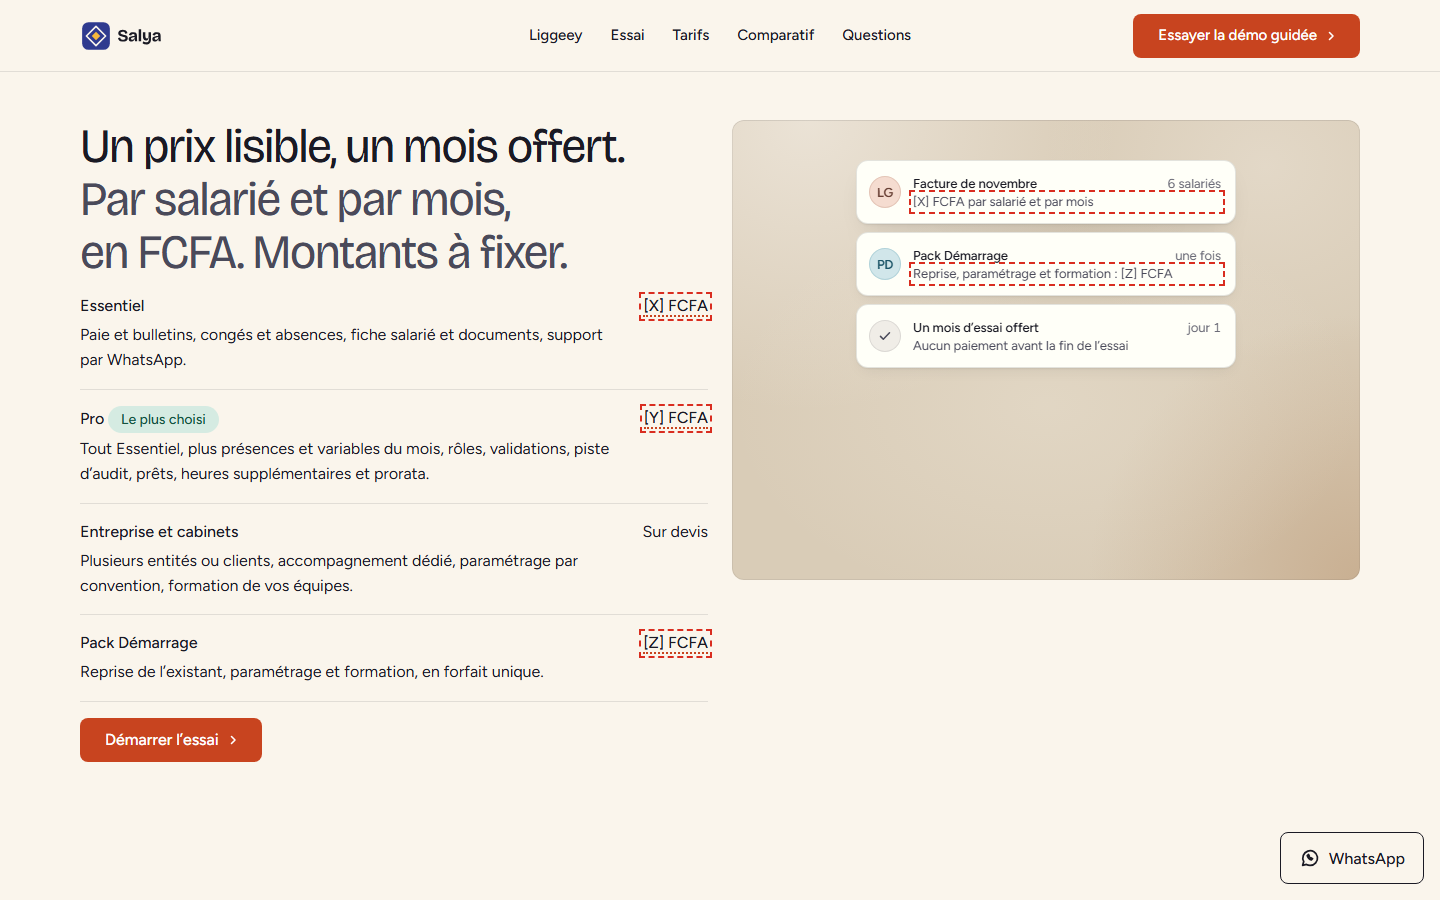
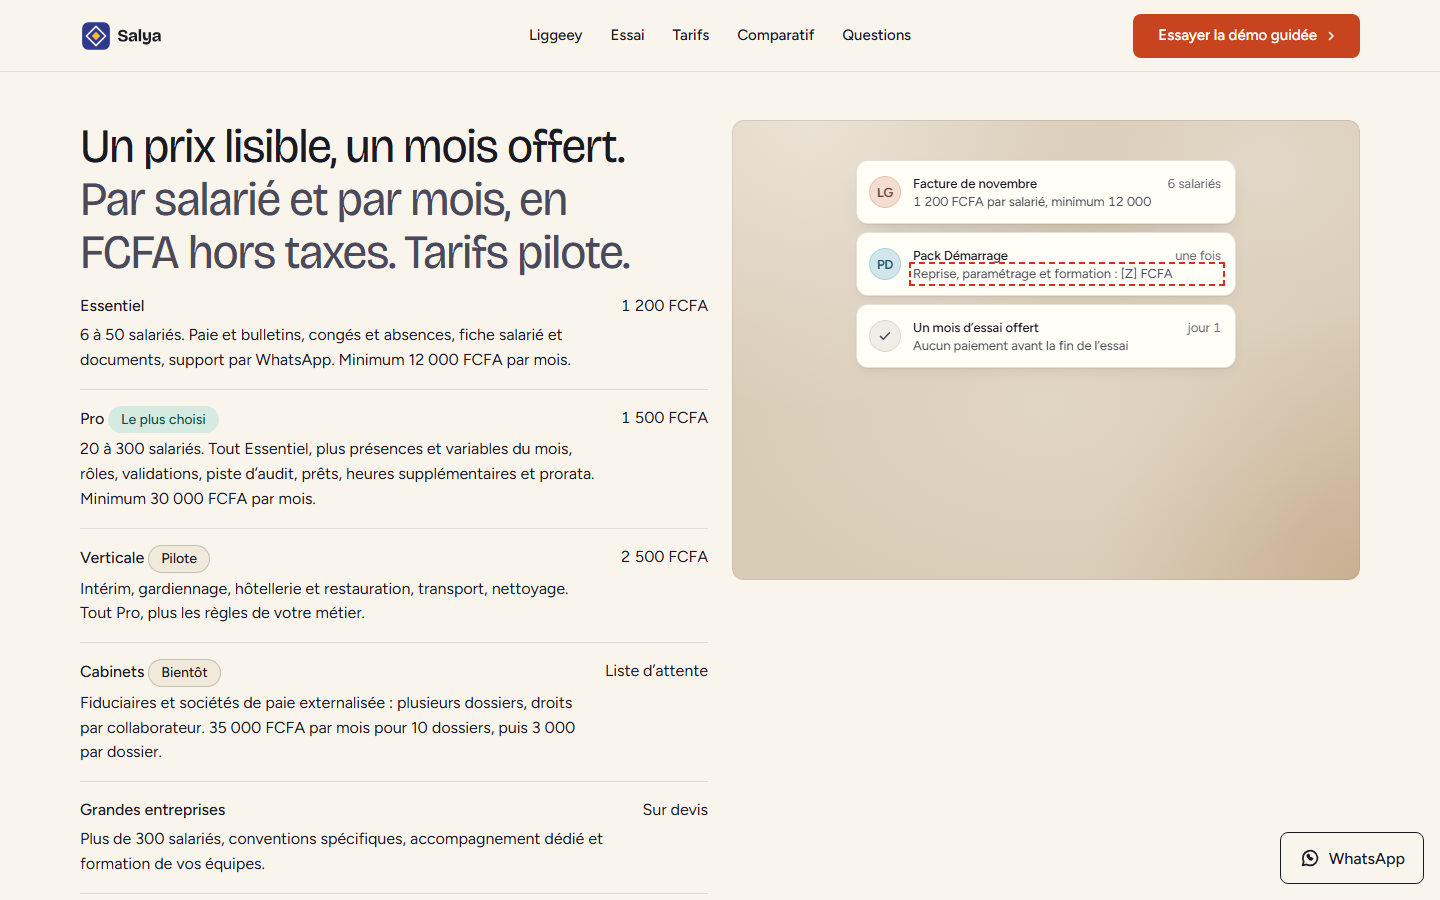
feat(tarifs): grille pilote issue du benchmark, FAQ, suite et comparatif mis à jour

diff --git a/app/page.tsx b/app/page.tsx
@@ -37,7 +37,8 @@ const TRIAL = [
 const CMP = [
   ["Mise en route", "Souvent un projet de plusieurs semaines, avec un consultant.", "Objectif : première paie dans la journée, sans consultant."],
   ["Reprise de l’existant", "À votre charge, ou en prestation payante.", "Accompagnée pendant le mois d’essai."],
-  ["Coût de départ", "Licence et déploiement à l’avance.", "Abonnement mensuel, un mois offert."],
+  ["Coût de départ", "Licence et déploiement à l’avance.", "Abonnement mensuel à partir de 1 200 FCFA par salarié, un mois offert."],
+  ["Mises à jour légales", "Selon le contrat de maintenance.", "Taux et plafonds tenus à jour, compris dans l’abonnement."],
   ["Langue et monnaie", "Selon l’éditeur et le pays.", "Français et FCFA dès l’origine."],
   ["Règlement des salaires", "Souvent traité hors du logiciel.", "Règlement par lot préparé dans l’outil (en cours de finalisation)."],
   ["Contrôles", "Variables selon les modules achetés.", "Validation par rôles, piste d’audit, périodes verrouillées."],
@@ -48,7 +49,10 @@ const FAQ = [
   ["Puis-je reprendre mes salariés depuis Excel ?", "Oui. Vous déposez votre fichier, Liggeey signale les informations manquantes et vous les corrigez à l’écran. Notre équipe vous accompagne."],
   ["Les règles de paie du Sénégal sont-elles à jour ?", "Les paramètres sont tenus à jour par notre équipe à partir des textes en vigueur. La liste détaillée et sa date de dernière mise à jour seront publiées ici avant le lancement. [à valider]"],
   ["Que deviennent mes données si j’arrête après l’essai ?", "Elles restent les vôtres. Vous pourrez les récupérer, que vous continuiez ou non. [engagement à valider]"],
-  ["Et pour plusieurs entreprises ou plusieurs clients ?", "L’offre Entreprise et cabinets est prévue pour cela. Parlez-nous de votre organisation et nous préparons un essai adapté."],
+  ["Comment le prix est-il calculé ?", "Au nombre de salariés payés dans le mois, avec un minimum mensuel selon la formule et des remises de volume. Aucun frais caché : la reprise de vos données est un forfait facultatif."],
+  ["Que signifie « tarif pilote » ?", "Les premiers clients bénéficient d’un prix réduit pendant que nous terminons les déclarations officielles, le règlement par mobile money et la double authentification. En échange, nous vous demandons votre retour d’expérience."],
+  ["Pourquoi un abonnement plutôt qu’un module acheté une fois ?", "L’abonnement comprend les mises à jour des textes, l’hébergement, le support et l’espace salarié. Un module acheté une fois ne suit pas les changements de la loi."],
+  ["Et pour plusieurs entreprises ou plusieurs clients ?", "L’offre Cabinets (en préparation) et l’offre Grandes entreprises sont prévues pour cela. Parlez-nous de votre organisation et nous préparons un essai adapté."],
 ];
 
 function Ph({ children }: { children: React.ReactNode }) {
@@ -209,12 +213,14 @@ export default function Home() {
                 <h2 id="suite-h">Liggeey aujourd’hui, <span className="muted">la suite Salya demain.</span></h2>
                 <ul className="rows">
                   <li><span className="rows__name">Liggeey <span className="tag ok">Disponible</span></span><p>RH et paie. C’est ici que tout commence.</p></li>
-                  <li><span className="rows__name">Comptabilité <span className="tag">Bientôt</span></span><p>Écritures, rapprochements et états financiers, reliés à la paie.</p></li>
+                  <li><span className="rows__name">Déclarations officielles <span className="tag">En cours</span></span><p>Exports pour l’IPRES, la CSS et les impôts, avec un contrôle avant dépôt.</p></li>
+                  <li><span className="rows__name">Règlement par lot et mobile money <span className="tag">Bientôt</span></span><p>Fichiers de virement, Wave et Orange Money.</p></li>
+                  <li><span className="rows__name">Passerelles comptables <span className="tag">Bientôt</span></span><p>Échanges avec Sage, Odoo, SunuCompta et Excel, sans ressaisie.</p></li>
                   <li><span className="rows__name">Autres modules <span className="tag">Bientôt</span></span><p>Dites-nous ce qui vous manque le plus, nous construisons dans cet ordre.</p></li>
                 </ul>
                 <a className="link" href="#inscription">Être prévenu des prochains modules</a>
               </div>
-              <Visual name="notify" max={380} h={520} label="Notifications Salya : paie approuvée, comptabilité bientôt, autres modules" />
+              <Visual name="notify" max={380} h={520} label="Notifications Salya : paie approuvée, déclarations officielles, passerelles comptables" />
             </div>
           </div>
         </section>
@@ -246,16 +252,19 @@ export default function Home() {
           <div className="wrap">
             <div className="grid grid--top">
               <div className="span-6 stack-4">
-                <h2 id="tarifs-h">Un prix lisible, un mois offert. <span className="muted">Par salarié et par mois, en FCFA. Montants à fixer.</span></h2>
+                <h2 id="tarifs-h">Un prix lisible, un mois offert. <span className="muted">Par salarié et par mois, en FCFA hors taxes. Tarifs pilote.</span></h2>
                 <ul className="rows">
-                  <li><span className="rows__name">Essentiel</span><p>Paie et bulletins, congés et absences, fiche salarié et documents, support par WhatsApp.</p><span className="rows__value"><Ph>[X] FCFA</Ph></span></li>
-                  <li><span className="rows__name">Pro <span className="tag ok">Le plus choisi</span></span><p>Tout Essentiel, plus présences et variables du mois, rôles, validations, piste d’audit, prêts, heures supplémentaires et prorata.</p><span className="rows__value"><Ph>[Y] FCFA</Ph></span></li>
-                  <li><span className="rows__name">Entreprise et cabinets</span><p>Plusieurs entités ou clients, accompagnement dédié, paramétrage par convention, formation de vos équipes.</p><span className="rows__value">Sur devis</span></li>
-                  <li><span className="rows__name">Pack Démarrage</span><p>Reprise de l’existant, paramétrage et formation, en forfait unique.</p><span className="rows__value"><Ph>[Z] FCFA</Ph></span></li>
+                  <li><span className="rows__name">Essentiel</span><p>6 à 50 salariés. Paie et bulletins, congés et absences, fiche salarié et documents, support par WhatsApp. Minimum 12 000 FCFA par mois.</p><span className="rows__value">1 200 FCFA</span></li>
+                  <li><span className="rows__name">Pro <span className="tag ok">Le plus choisi</span></span><p>20 à 300 salariés. Tout Essentiel, plus présences et variables du mois, rôles, validations, piste d’audit, prêts, heures supplémentaires et prorata. Minimum 30 000 FCFA par mois.</p><span className="rows__value">1 500 FCFA</span></li>
+                  <li><span className="rows__name">Verticale <span className="tag">Pilote</span></span><p>Intérim, gardiennage, hôtellerie et restauration, transport, nettoyage. Tout Pro, plus les règles de votre métier.</p><span className="rows__value">2 500 FCFA</span></li>
+                  <li><span className="rows__name">Cabinets <span className="tag">Bientôt</span></span><p>Fiduciaires et sociétés de paie externalisée : plusieurs dossiers, droits par collaborateur. 35 000 FCFA par mois pour 10 dossiers, puis 3 000 par dossier.</p><span className="rows__value">Liste d’attente</span></li>
+                  <li><span className="rows__name">Grandes entreprises</span><p>Plus de 300 salariés, conventions spécifiques, accompagnement dédié et formation de vos équipes.</p><span className="rows__value">Sur devis</span></li>
+                  <li><span className="rows__name">Pack Démarrage</span><p>Reprise de l’existant, paramétrage et formation, en forfait unique et facultatif.</p><span className="rows__value"><Ph>[Z] FCFA</Ph></span></li>
                 </ul>
+                <p className="t-small muted">Remises de volume : 10 % de 11 à 30 salariés, 20 % de 31 à 75, 30 % au-delà. Les mises à jour des taux et plafonds légaux sont comprises.</p>
                 <div className="btn-row"><a className="btn btn--primary" href="#inscription">Démarrer l’essai{ARROW}</a></div>
               </div>
-              <Visual name="invoice" max={380} h={460} label="Aperçu d’une facture Liggeey : nombre de salariés et prix par salarié, montants à fixer" />
+              <Visual name="invoice" max={380} h={460} label="Aperçu d’une facture Liggeey : six salariés, 1 200 FCFA par salarié, minimum mensuel de 12 000 FCFA" />
             </div>
           </div>
         </section>

diff --git a/app/Visual.tsx b/app/Visual.tsx
@@ -54,7 +54,7 @@ const FRAGMENTS = {
 
   notify: `<div class="ui ui-notify" data-ui="notify"><ul class="ui-notify__list" data-notify-list>
     <li class="ui-note"><span class="ui-avatar ui-note__av" data-tone="1">LG</span><span class="ui-note__text"><span class="ui-note__title">Liggeey · paie approuvée<time>maintenant</time></span><span class="ui-note__body">Novembre 2026, six bulletins archivés</span></span><span class="ui-btn ui-btn--sm ui-note__btn">Ouvrir</span></li>
-    <li class="ui-note"><span class="ui-avatar ui-note__av" data-tone="4">CP</span><span class="ui-note__text"><span class="ui-note__title">Comptabilité · bientôt<time>à venir</time></span><span class="ui-note__body">Vous serez prévenu dès l’ouverture</span></span></li>
+    <li class="ui-note"><span class="ui-avatar ui-note__av" data-tone="4">CP</span><span class="ui-note__text"><span class="ui-note__title">Passerelles comptables<time>bientôt</time></span><span class="ui-note__body">Vous serez prévenu dès l’ouverture</span></span></li>
     <li class="ui-note"><span class="ui-note__ico"><svg class="ui-icon" viewBox="0 0 16 16"><path d="m3.5 8.4 2.8 2.8 6.2-6.4"/></svg></span><span class="ui-note__text"><span class="ui-note__title">Autres modules<time>vos avis</time></span><span class="ui-note__body">Dites-nous ce qui vous manque le plus</span></span></li>
   </ul></div>`,
 
@@ -65,7 +65,7 @@ const FRAGMENTS = {
   </ul></div>`,
 
   invoice: `<div class="ui ui-notify" data-ui="notify"><ul class="ui-notify__list" data-notify-list>
-    <li class="ui-note"><span class="ui-avatar ui-note__av" data-tone="1">LG</span><span class="ui-note__text"><span class="ui-note__title">Facture de novembre<time>6 salariés</time></span><span class="ui-note__body">[X] FCFA par salarié et par mois</span></span></li>
+    <li class="ui-note"><span class="ui-avatar ui-note__av" data-tone="1">LG</span><span class="ui-note__text"><span class="ui-note__title">Facture de novembre<time>6 salariés</time></span><span class="ui-note__body">1 200 FCFA par salarié, minimum 12 000</span></span></li>
     <li class="ui-note"><span class="ui-avatar ui-note__av" data-tone="4">PD</span><span class="ui-note__text"><span class="ui-note__title">Pack Démarrage<time>une fois</time></span><span class="ui-note__body">Reprise, paramétrage et formation : [Z] FCFA</span></span></li>
     <li class="ui-note"><span class="ui-note__ico"><svg class="ui-icon" viewBox="0 0 16 16"><path d="m3.5 8.4 2.8 2.8 6.2-6.4"/></svg></span><span class="ui-note__text"><span class="ui-note__title">Un mois d’essai offert<time>jour 1</time></span><span class="ui-note__body">Aucun paiement avant la fin de l’essai</span></span></li>
   </ul></div>`,
